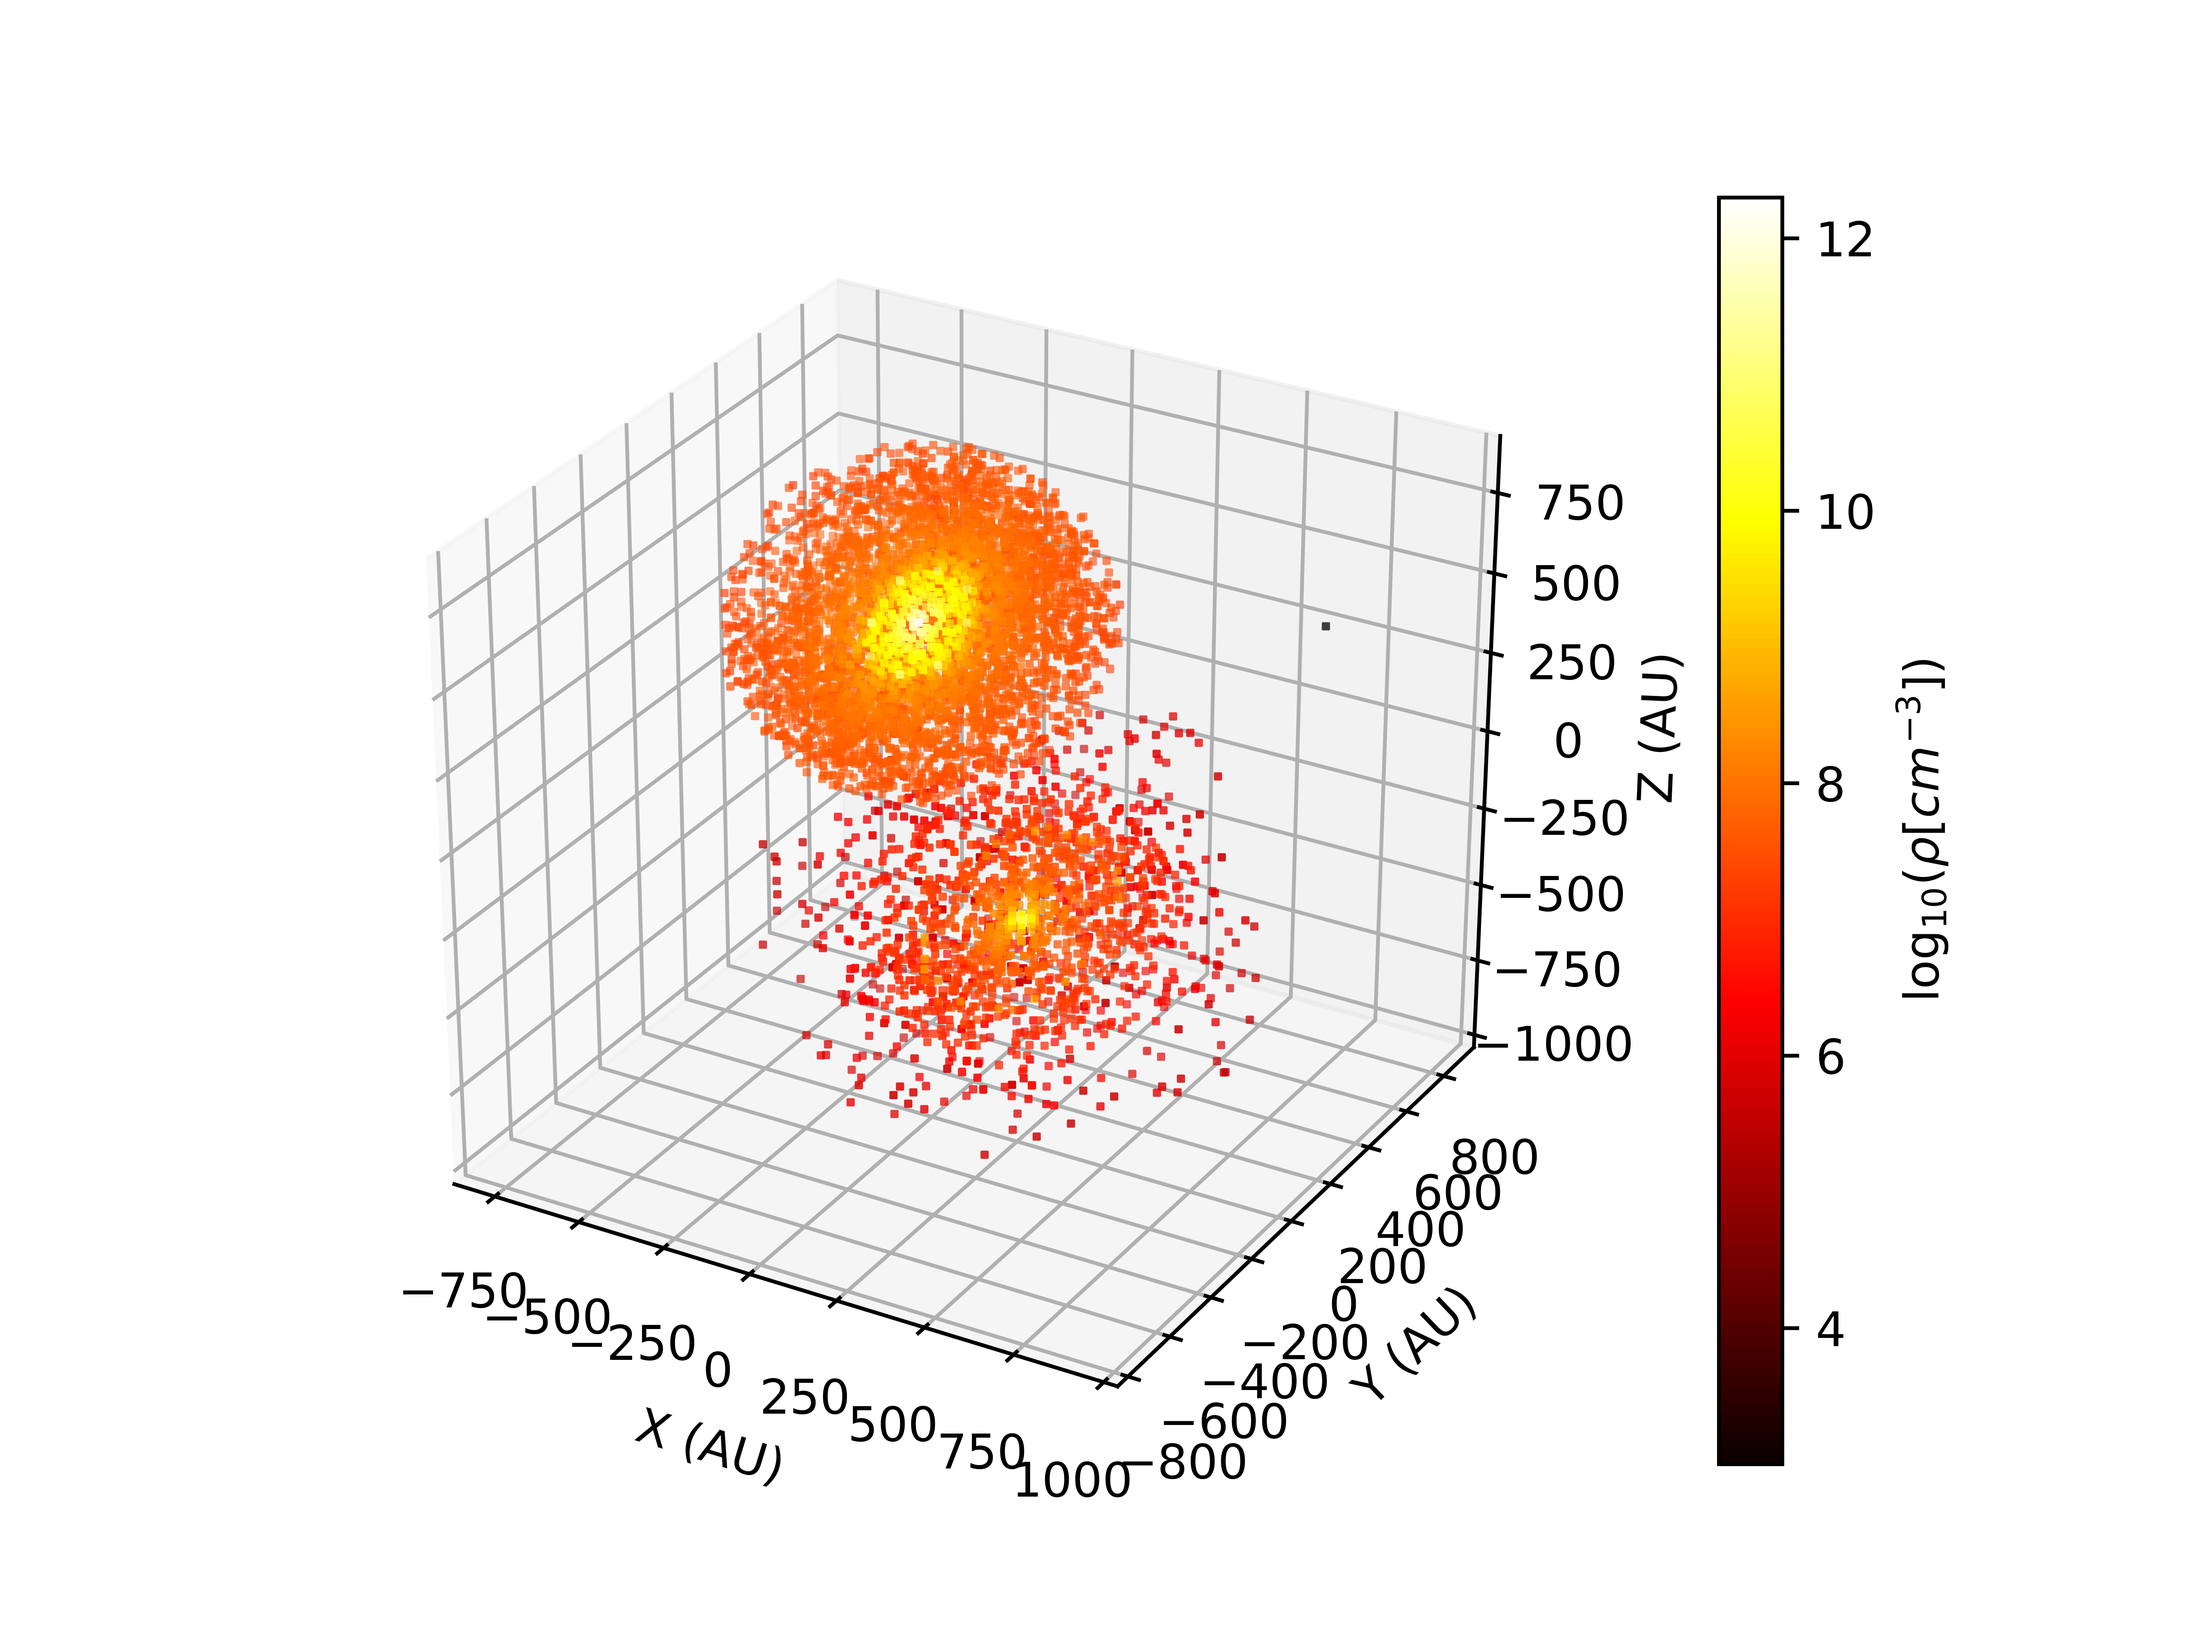
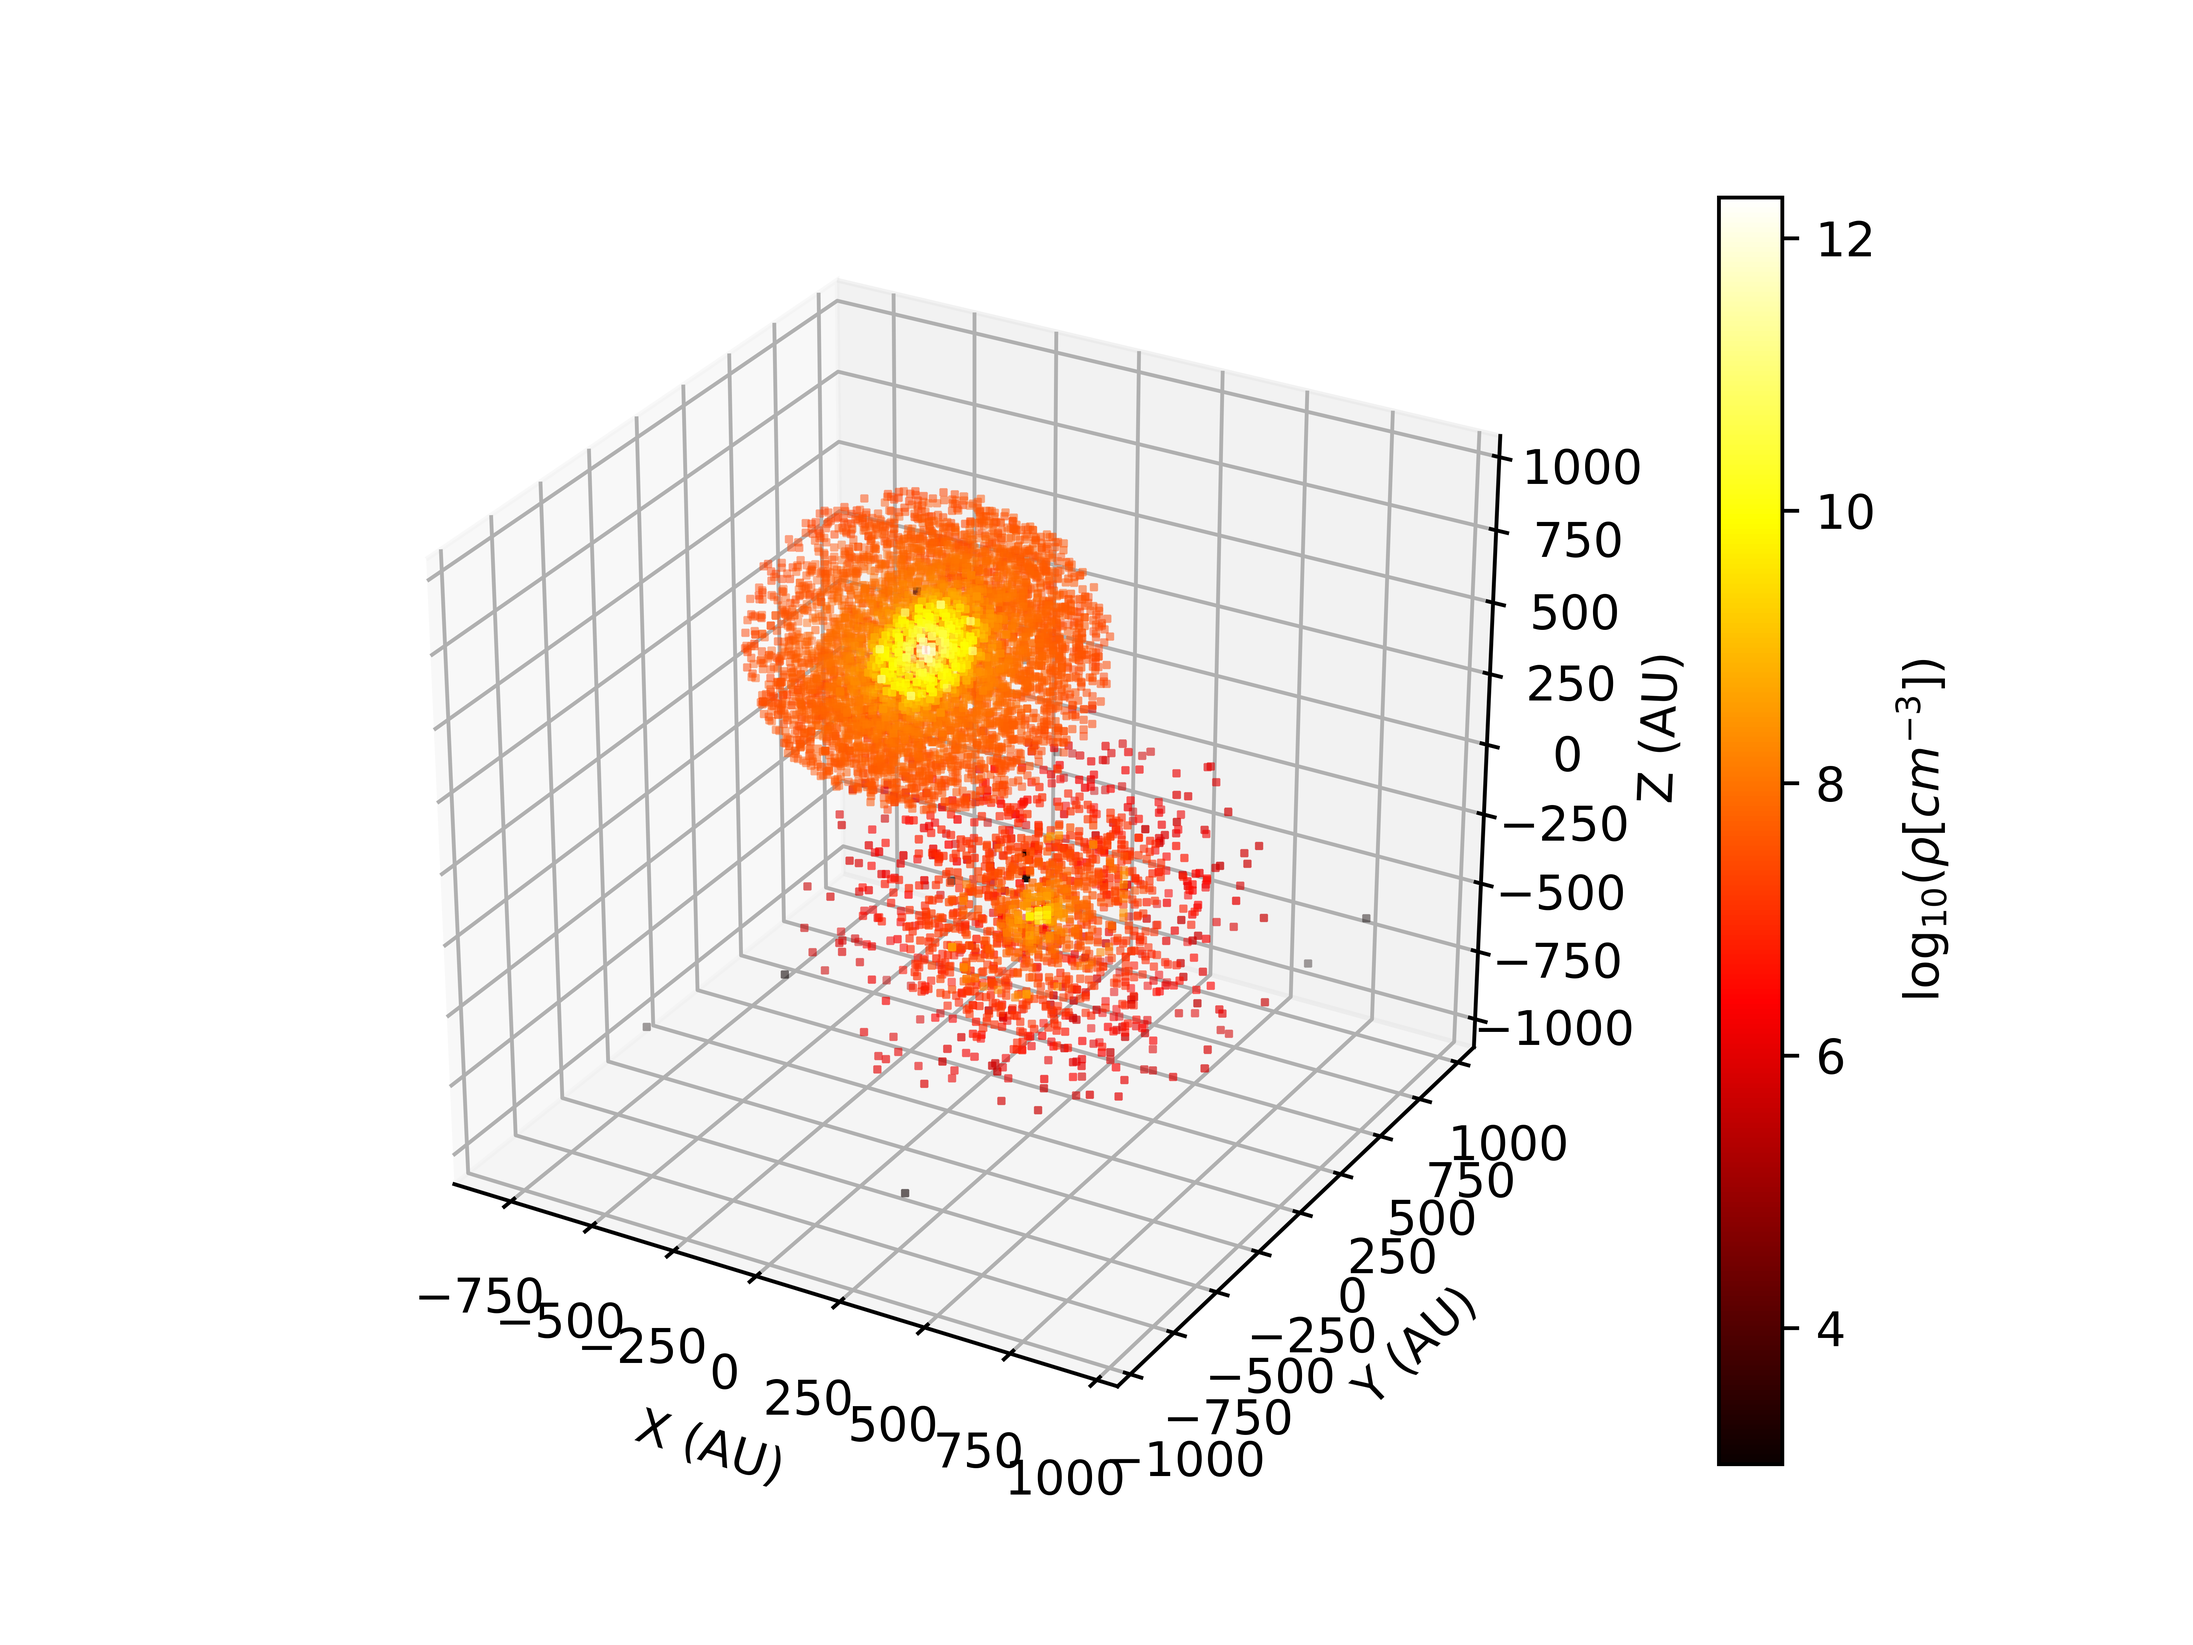
update

Changed region(s): [[0.1875, 0.1875, 0.75, 0.9062], [0.1875, 0.7812, 0.3438, 0.8438], [0.3438, 0.8438, 0.4062, 0.875]]

diff --git a/sf3dmodels/Model.py b/sf3dmodels/Model.py
@@ -301,7 +301,7 @@ def density_Env_Disc(RStar, Rd, rhoE0, Arho, GRID,
     #----------------
     #ENVELOPE PROFILE
     #----------------
-    if ang_cavity: print ('Set cavity for density with aperture %.1f deg'%(ang_cavity * 180 / np.pi))
+    if ang_cavity: print ('Set cavity for density with half-aperture %.1f deg'%(ang_cavity * 180 / np.pi))
     
     if envFlag:
         print ('Calculating stream lines for Ulrich envelope...')
@@ -370,7 +370,7 @@ def density_Hamburgers(RStar, shFactor, Ro, rhoE0, Arho, GRID,
         if not rdisc_max: rdisc_max = Ro
         rhoD0 = Arho * rhoE0 
         H0 = shFactor * RStar
-        print ('Scaleheight normalization constant:', H0 / AU * 1 / ((RStar/AU)**(1 + 0.5*(1-q))))
+        print ('Scale-height normalization constant:', H0 / AU * 1 / ((RStar/AU)**(1 + 0.5*(1-q))))
         H = H0 * (RList / RStar)**(1 + 0.5*(1-q)) #Scaleheight, with no tapering 
         if Rt: H = H * np.exp(-((RList-Rt) / (Ro-Rt))**2)  #Scaleheight, with tapering 
         rhoDISC = np.where( RList <= rdisc_max, rhoD0 * (RList / Ro)**-p * np.exp(-0.5 * zList**2 / H**2), 1.0)
@@ -635,7 +635,7 @@ def temperature(TStar, Rd, T10Env, RStar, MStar, MRate, BT, density, GRID,
     #----------------
     #ENVELOPE PROFILE
     #----------------
-    if ang_cavity: print ('Set cavity for temperature with aperture %.1f deg'%(ang_cavity * 180 / np.pi))
+    if ang_cavity: print ('Set cavity for temperature with half-aperture %.1f deg'%(ang_cavity * 180 / np.pi))
 
     if density.envFlag:
         print ('Calculating Envelope temperature...')

diff --git a/examples/two_sources/ExecModel_Burger_submodel.py b/examples/two_sources/ExecModel_Burger_submodel.py
@@ -9,6 +9,7 @@ from sf3dmodels import *
 #-----------------
 #Extra libraries
 #-----------------
+from matplotlib import colors
 import numpy as np
 import os
 import time
@@ -77,8 +78,8 @@ density = Model.Struct( **{ 'total': densEnv.total + densDisc.total,
 T10Env = 250. #Envelope temperature at 10 AU
 Tmin = 10. #Minimum possible temperature. Every node with T<Tmin will inherit Tmin. 
 BT = 60. #Adjustable factor for disc temperature. Extra, or less, disc heating.
-temperature = Model.temperature_Hamburgers(TStar, RStar, MStar, MRate, Rd, T10Env, Tmin, 
-                                           BT, density, GRID, inverted = False)
+temperature = Model.temperature_Hamburgers(TStar, RStar, MStar, MRate, Rd, T10Env, BT, 
+                                           density, GRID, Tmin_disc = Tmin, inverted = False)
 
 #--------
 #VELOCITY
@@ -133,7 +134,11 @@ print ('-------------------------------------------------\n---------------------
 #----------------------------------------
 tag = 'Burger'
 weight = 10*T10Env
+
+vmin, vmax = np.array([5e11, 5e15]) / 1e6
+norm = colors.LogNorm(vmin=vmin, vmax=vmax)
+
 Plot_model.scatter3D(GRID, temperature.total, weight, NRand = 4000, colordim = density.total / 1e6 , axisunit = U.AU, cmap = 'hot', 
-                     colorscale = 'log', colorlabel = r'${\rm log}_{10}(\rho [cm^{-3}])$', output = '3Dpoints%s.png'%tag, show = True)
+                     norm = norm, colorlabel = r'$\rho$ $[cm^{-3}]$', output = '3Dpoints%s.png'%tag, show = True)
 
 

diff --git a/examples/hamburger_standard/ExecModel_Burger.py b/examples/hamburger_standard/ExecModel_Burger.py
@@ -117,9 +117,12 @@ print ('-------------------------------------------------\n---------------------
 tag = 'Burger'
 dens_plot = density.total / 1e6
 
+vmin, vmax = np.array([5e11, 5e15]) / 1e6
+norm = colors.LogNorm(vmin=vmin, vmax=vmax)
+
 weight = 10*T10Env
 Plot_model.scatter3D(GRID, temperature.total, weight, NRand = 4000, colordim = dens_plot , axisunit = U.AU, cmap = 'hot', 
-                     colorscale = 'log', colorlabel = r'${\rm log}_{10}(\rho [cm^{-3}])$', output = '3Dpoints%s.png'%tag, show = False)
+                     norm = norm, colorlabel = r'$\rho$ $[cm^{-3}]$', output = '3Dpoints%s.png'%tag, show = False)
 
 #----------------------------------------
 #2D PLOTTING (Density and Temperature)

diff --git a/examples/two_sources/ExecModel_Main_submodel.py b/examples/two_sources/ExecModel_Main_submodel.py
@@ -9,6 +9,7 @@ from sf3dmodels import *
 #-----------------
 #Extra libraries
 #-----------------
+from matplotlib import colors
 import numpy as np
 import os
 import time
@@ -111,4 +112,4 @@ tag = 'Main'
 weight = 10*Rho0
 r = GRID.rRTP[0] / U.AU #GRID.rRTP hosts [r, R, Theta, Phi] --> Polar GRID
 Plot_model.scatter3D(GRID, density.total, weight, NRand = 4000, colordim = r, axisunit = U.AU, cmap = 'jet', 
-                     colorscale = 'log', colorlabel = r'${\rm log}_{10}(r [au])$', output = '3Dpoints%s.png'%tag, show = True)
+                     colorscale = 'log', colorlabel = r'${\rm log}_{10}(r$ $[au])$', output = '3Dpoints%s.png'%tag, show = True)

diff --git a/examples/two_sources/Global_grid.py b/examples/two_sources/Global_grid.py
@@ -23,7 +23,7 @@ global_prop = BGG.overlap(GRID, submodels = list_sub)
 #PLOTTING
 #--------
 
-GRID = global_prop.GRID 
+#GRID = global_prop.GRID 
 density = global_prop.density / 1e6 #1e6 to convert from m^-3 to cm^-3
 temperature = global_prop.temperature
 

diff --git a/docs/single_source/single_source.rst b/docs/single_source/single_source.rst
@@ -159,7 +159,7 @@ Source code and figures on GitHub: `single_main <https://github.com/andizq/star-
    #-----------------------------
    Model.DataTab_LIME(density.total, temperature.total, vel, abundance, gtdratio, GRID)
 
-**f.** Print useful information:
+**f.** And print some useful information:
 
 .. code-block:: python
 
@@ -282,10 +282,13 @@ Source code and figures on GitHub: `hamburger_standard <https://github.com/andiz
    tag = 'Burger'
    dens_plot = density.total / 1e6
 
+   vmin, vmax = np.array([5e11, 5e15]) / 1e6
+   norm = colors.LogNorm(vmin=vmin, vmax=vmax)
+
    weight = 10*T10Env
    Plot_model.scatter3D(GRID, temperature.total, weight, NRand = 4000, 
    			colordim = dens_plot, axisunit = U.AU, cmap = 'hot', 
-			colorscale = 'log', 
+			norm = norm,
 			colorlabel = r'${\rm log}_{10}(\rho [cm^{-3}])$', 
 			output = '3Dpoints%s.png'%tag, show = False)
 
@@ -383,9 +386,13 @@ Source code and figures on GitHub: `hamburger_standard <https://github.com/andiz
    Model.DataTab_LIME(density.total, temperature.total, vel, abundance, gtdratio, GRID) 
 
 
-**f.** Print useful information:
+**f.** And print some useful information:
 
 .. code-block:: python
 
    Model.PrintProperties(density, temperature, GRID)
    print ('Ellapsed time: %.3fs' % (time.time() - t0)) #TIMING
+
+
+Example 3
+---------

diff --git a/docs/two_sources/two_sources.rst b/docs/two_sources/two_sources.rst
@@ -131,9 +131,13 @@ The 3D plot of the modelled region, shifted and rotated:
    #----------------------------------------
    tag = 'Burger'
    weight = 10*T10Env
+
+   vmin, vmax = np.array([5e11, 5e15]) / 1e6
+   norm = colors.LogNorm(vmin=vmin, vmax=vmax)
+
    Plot_model.scatter3D(GRID, temperature.total, weight, 
    			NRand = 4000, colordim = density.total / 1e6, 
-			axisunit = U.AU, cmap = 'jet', colorscale = 'log', 
+			axisunit = U.AU, cmap = 'jet', norm = norm,
 			colorlabel = r'${\rm log}_{10}(r [au])$', 
 			output = '3Dpoints%s.png'%tag, show = False)
 
@@ -199,7 +203,6 @@ Plotting the result:
 
 .. code-block:: python
 
-   GRID = global_prop.GRID #### ?? 
    density = global_prop.density / 1e6 #cm^-3
    temperature = global_prop.temperature
 
